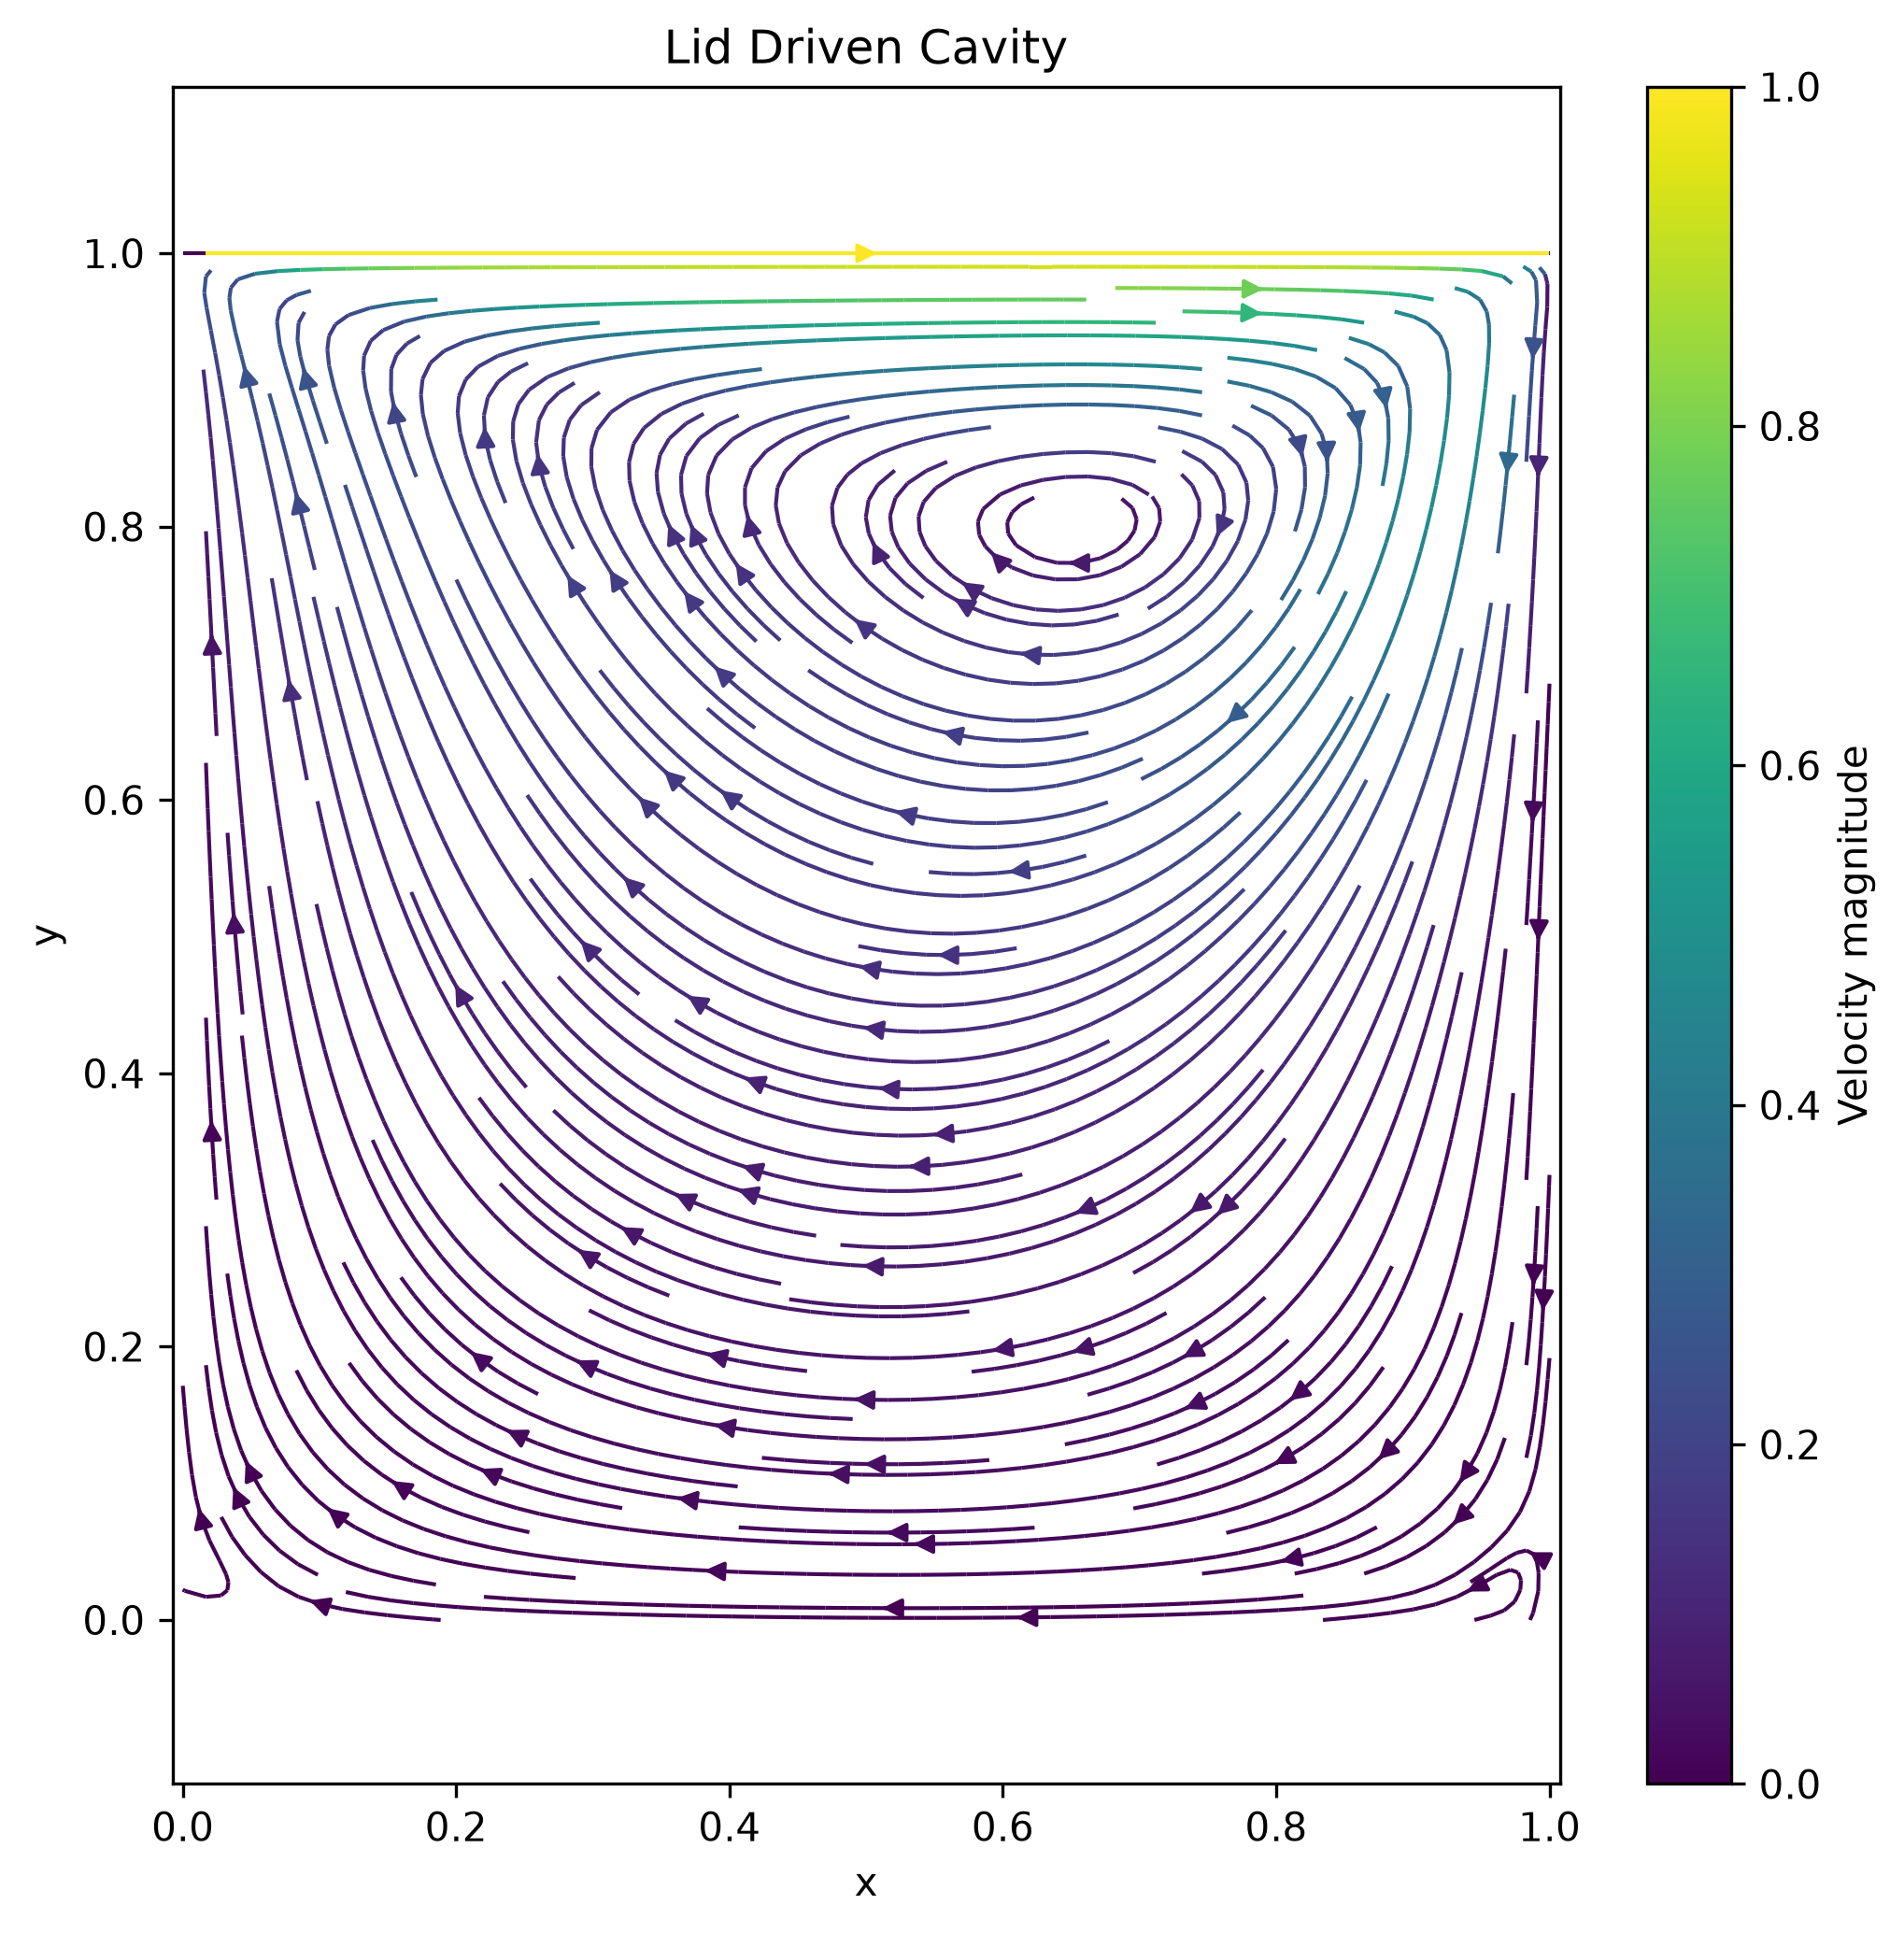
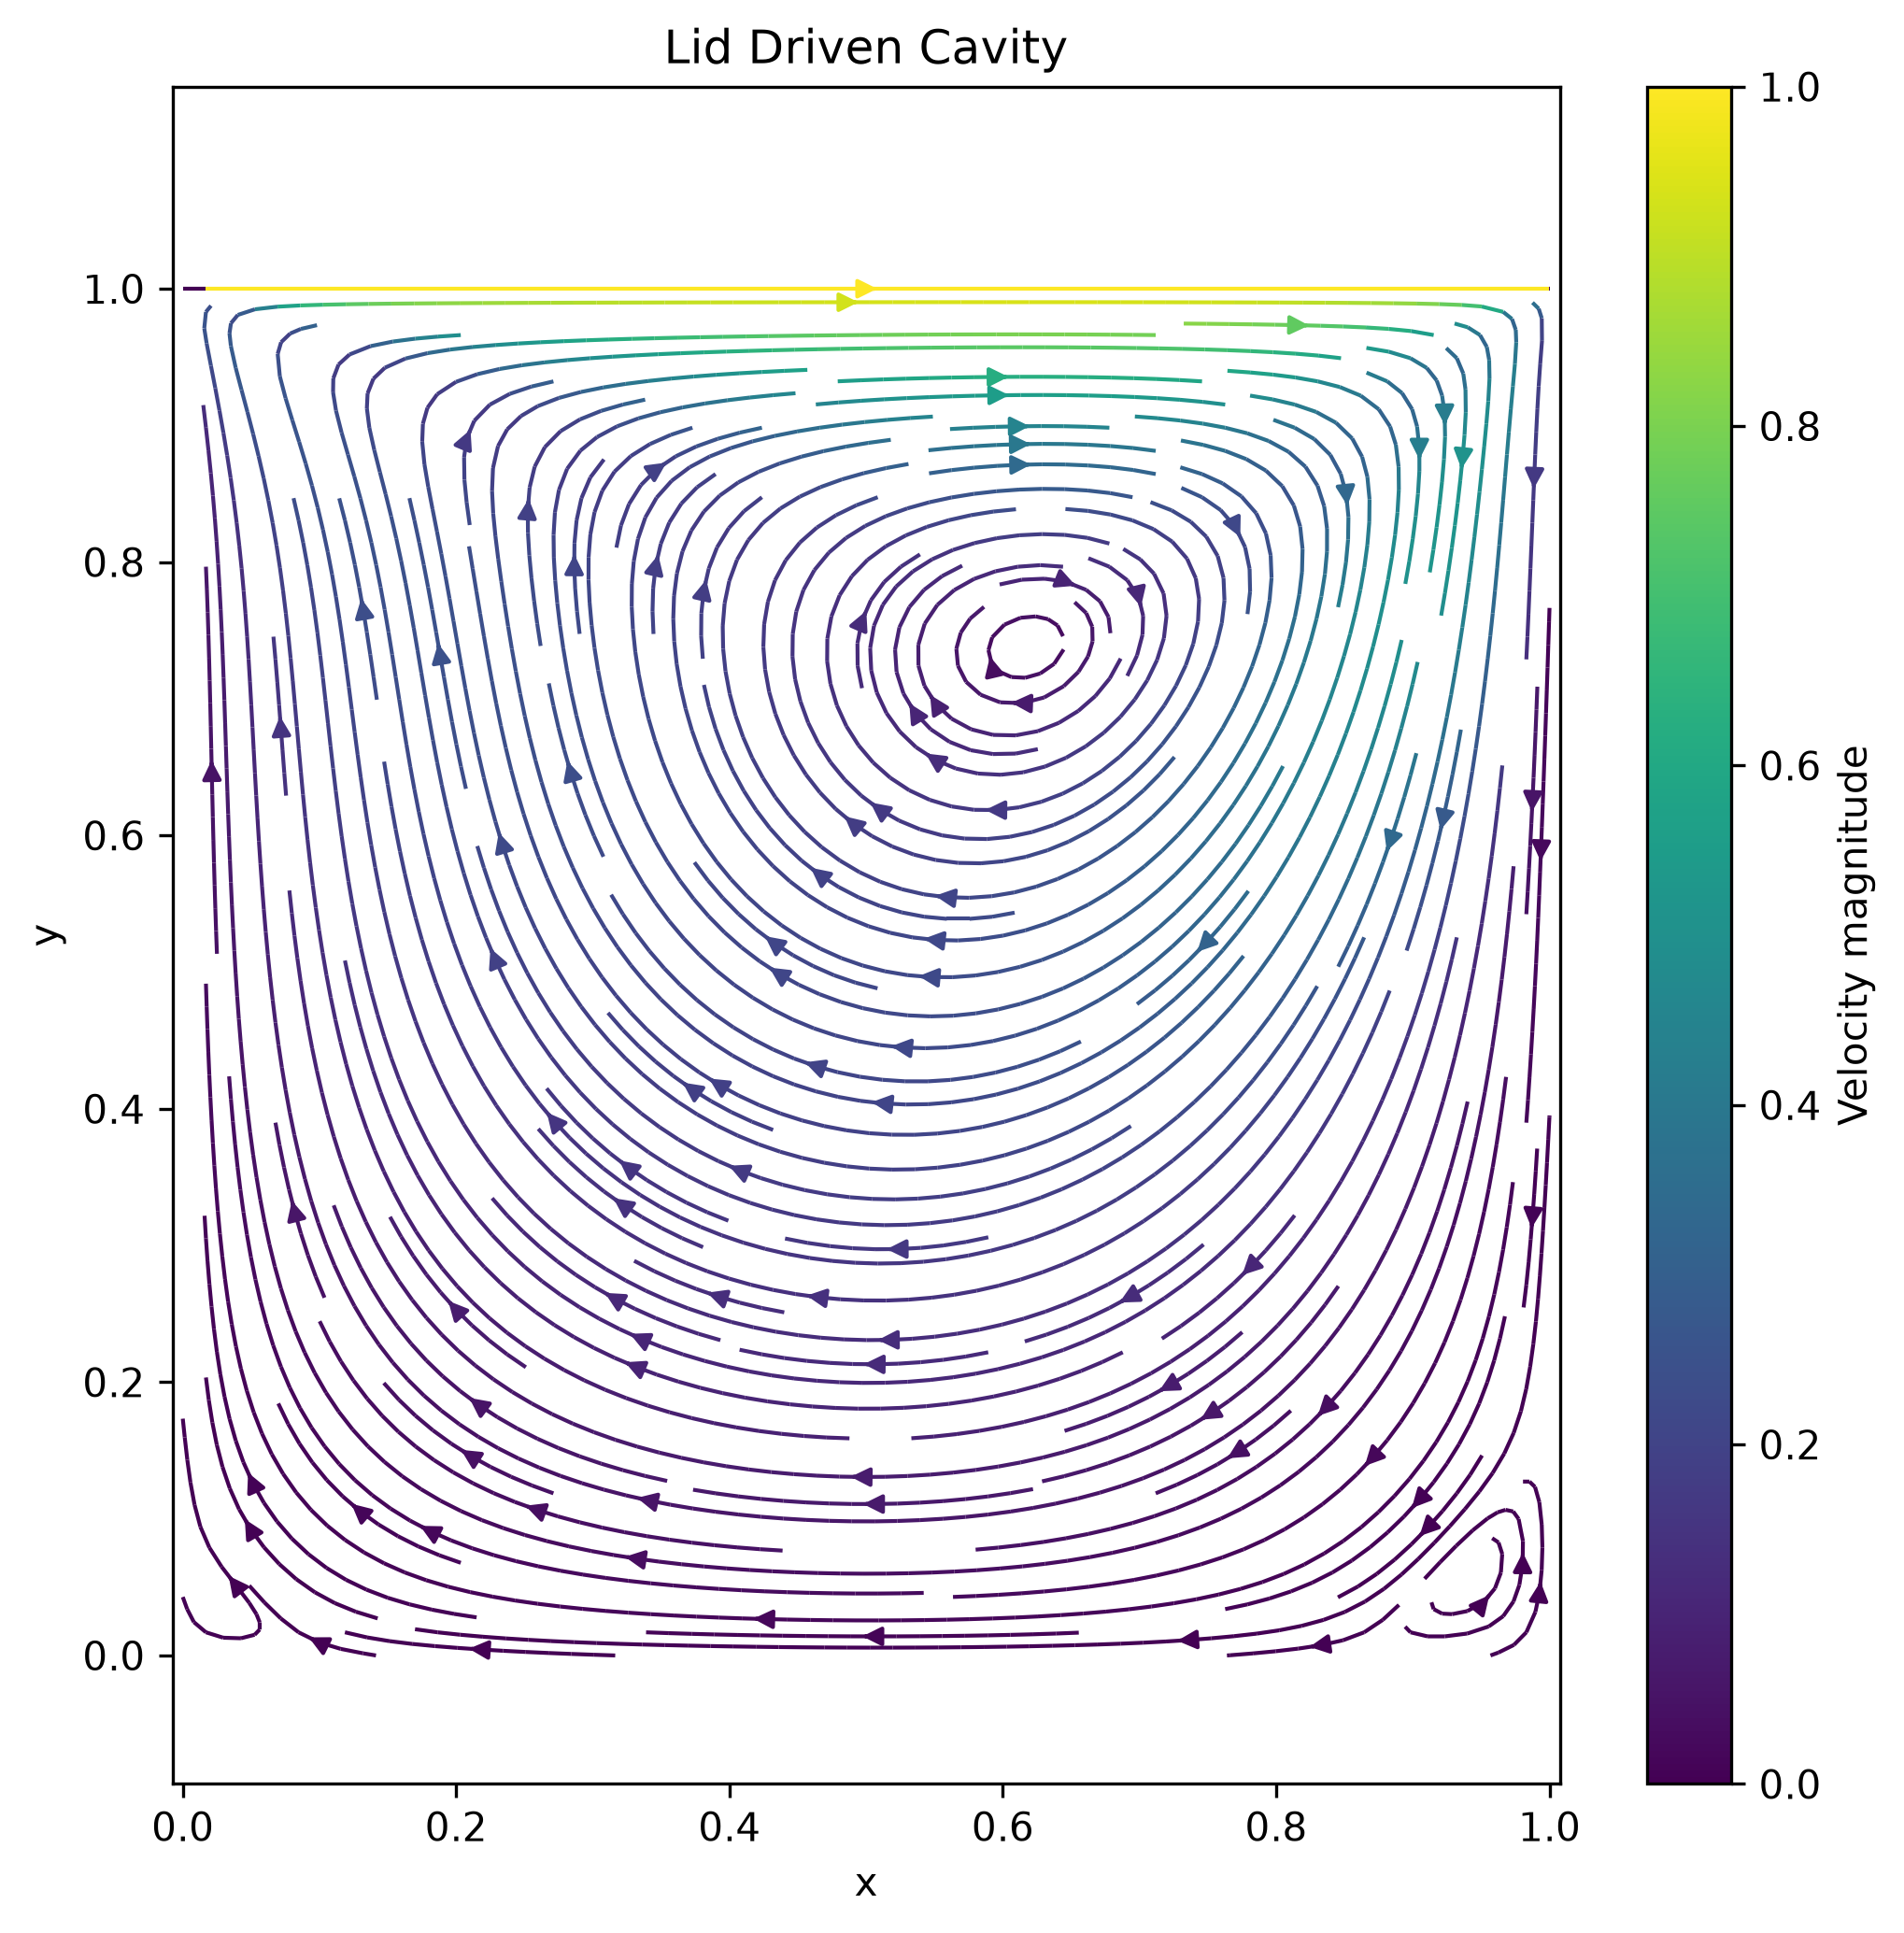
achieved convergence and correct ghia validation -- solver complete

Changed region(s): [[0.0309, 0.1237, 0.8346, 0.8661], [0.0309, 0.8352, 0.0927, 0.8661]]

diff --git a/scripts/compare_ghia.py b/scripts/compare_ghia.py
@@ -1,0 +1,109 @@
+import numpy as np
+import matplotlib.pyplot as plt
+
+
+# Load simulation results
+u = np.loadtxt("results/velocity_u.csv", delimiter=",")
+v = np.loadtxt("results/velocity_v.csv", delimiter=",")
+
+x = np.loadtxt("results/x.csv")
+y = np.loadtxt("results/y.csv")
+
+
+# Extract centerlines
+mid = len(x) // 2
+
+# u along vertical centreline (x = 0.5)
+u_center = u[mid, :]
+
+# v along horizontal centreline (y = 0.5)
+v_center = v[:, mid]
+
+
+# Load Ghia benchmark
+ghia_u = np.loadtxt(
+    "validation/ghia_Re100_u_centerline.csv",
+    delimiter=",",
+    skiprows=1
+)
+
+ghia_v = np.loadtxt(
+    "validation/ghia_Re100_v_centerline.csv",
+    delimiter=",",
+    skiprows=1
+)
+
+# columns
+
+ghia_y = ghia_u[:,0]
+ghia_uvel = ghia_u[:,1]
+
+ghia_x = ghia_v[:,0]
+ghia_vvel = ghia_v[:,1]
+
+
+# Plot
+fig, ax = plt.subplots(1,2, figsize=(12,5))
+
+
+# u velocity
+ax[0].plot(
+    u_center,
+    y,
+    lw=2,
+    label="Present Solver"
+)
+
+ax[0].scatter(
+    ghia_uvel,
+    ghia_y,
+    color="red",
+    marker="o",
+    s=25,
+    label="Ghia et al. (1982)"
+)
+
+ax[0].set_xlabel("u")
+ax[0].set_ylabel("y")
+
+ax[0].set_title("Vertical Centreline")
+
+ax[0].grid(True)
+
+ax[0].legend()
+
+# v velocity
+ax[1].plot(
+    x,
+    v_center,
+    lw=2,
+    label="Present Solver"
+)
+
+ax[1].scatter(
+    ghia_x,
+    ghia_vvel,
+    color="red",
+    marker="o",
+    s=25,
+    label="Ghia et al. (1982)"
+)
+
+ax[1].set_xlabel("x")
+ax[1].set_ylabel("v")
+
+ax[1].set_title("Horizontal Centreline")
+
+ax[1].grid(True)
+
+ax[1].legend()
+
+plt.tight_layout()
+
+plt.savefig(
+    "plots/ghia_validation.png",
+    dpi=300,
+    bbox_inches="tight"
+)
+
+print("Saved plots/ghia_validation.png")

diff --git a/scripts/plot_residual.py b/scripts/plot_residual.py
@@ -28,11 +28,14 @@ plt.semilogy(
 ## labels and title
 plt.xlabel("Iteration")
 plt.ylabel("Velocity Residuals")
-plt.title("SOlver Convergence History")
+plt.title("Solver Convergence History")
 
 plt.grid(True)
-saveFigure("residual.png")
-plt.show()
+plt.savefig(
+    "plots/residual_plot.png",
+    dpi=300,
+    bbox_inches="tight"
+)
 
 ## annotating the final residual value
 plt.text(
@@ -40,3 +43,5 @@ plt.text(
     residual[-1],
     f"{residual[-1]:.2e}"
 )
+
+print("Saved plots/residual_plot.png")

diff --git a/scripts/common.py b/scripts/common.py
@@ -4,7 +4,7 @@ import numpy as np
 import matplotlib.pyplot as plt
 
 
-PROJECT_DIR = Path(__file__).resolev().parent.parent
+PROJECT_DIR = Path(__file__).resolve().parent.parent
 RESULTS_DIR = PROJECT_DIR / "results"
 FIGURES_DIR = PROJECT_DIR / "figures"
 

diff --git a/scripts/verify_bc.py b/scripts/verify_bc.py
@@ -12,7 +12,7 @@ print("Boundary Condition Verification")
 print("=" * 40)
 
 # u BC
-top_u = np.max(np.abs(u[:, -1] - 1.0))
+top_u = np.max(np.abs(u[1: -1, -1] - 1.0))
 bottom_u = np.max(np.abs(u[:, 0]))
 left_u = np.max(np.abs(u[0, 1: -1]))
 right_u = np.max(np.abs(u[-1, 1: -1]))

diff --git a/src/simulation.cpp b/src/simulation.cpp
@@ -580,7 +580,7 @@ void Simulation::writeSimulationInfo(const std::string& outputFolder)
     file << "Reynolds Number     : " << config.Re << "\n";
     file << "Lid Velocity        : " << config.lidVelocity << "\n";
     file << "Density             : " << config.rho << "\n";
-    file << "Kinematic kinematicViscosity : " << config.kinematicViscosity() << "\n\n";
+    file << "Kinematic Viscosity : " << config.kinematicViscosity() << "\n\n";
 
     file << "Solver Settings\n";
     file << "---------------------------\n";

diff --git a/src/simulation.h b/src/simulation.h
@@ -29,7 +29,7 @@ struct Config
     double cfl = 0.5; // CFL number for stability
     double pressureTolerance = 1e-6; // pressure convergence tolerance
     double velocityTolerance = 1e-6; // velocity convergence tolerance
-    int maxIterations = 1000; // maximum number of iterations
+    int maxIterations = 10000; // maximum number of iterations
     int pressureIterations = 500; // number of iterations for pressure solver
 
 };

diff --git a/README.md b/README.md
@@ -5,9 +5,7 @@
   <img src="https://img.shields.io/badge/License-MIT-blue.svg" alt="MIT License">
 </p>
 
-This is a C++17 implementation of the classical two-dimensional lid-driven cavity flow problem.
-
-I developed this project after completing the **CFDPython – 12 Steps to Navier–Stokes** course by the Barba Group. The objective was to deepen my understanding of Computational Fluid Dynamics by translating the numerical methods learned in Python into a structured C++ implementation.
+After implementing the 2D incompressible Cavity Flow Navier–Stokes equations using the Finite Difference Method in python (Link here), I developed this project with the objective of deepening my understanding of Computational Fluid Dynamics by translating the numerical methods learned in Python into a structured C++ implementation.
 
 Rather than simply reproducing the Python code, this project focuses on implementing the incompressible Navier–Stokes solver using modern C++ while developing good software engineering practices, numerical programming skills, and a foundation for future high-performance CFD solvers.
 